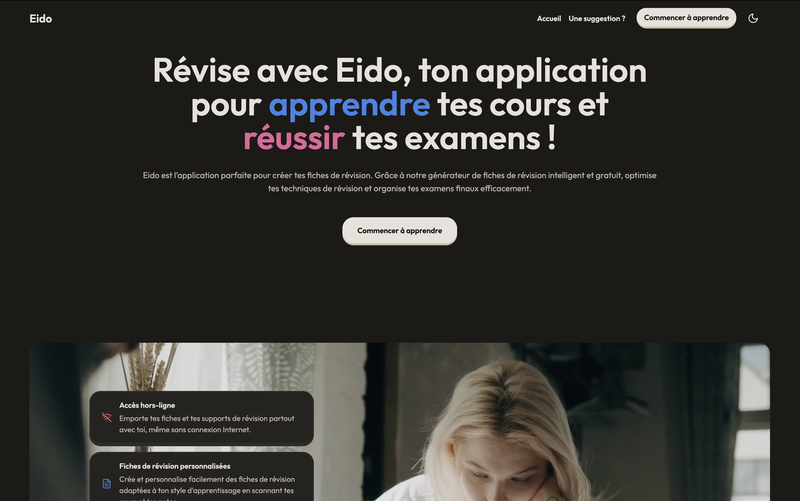
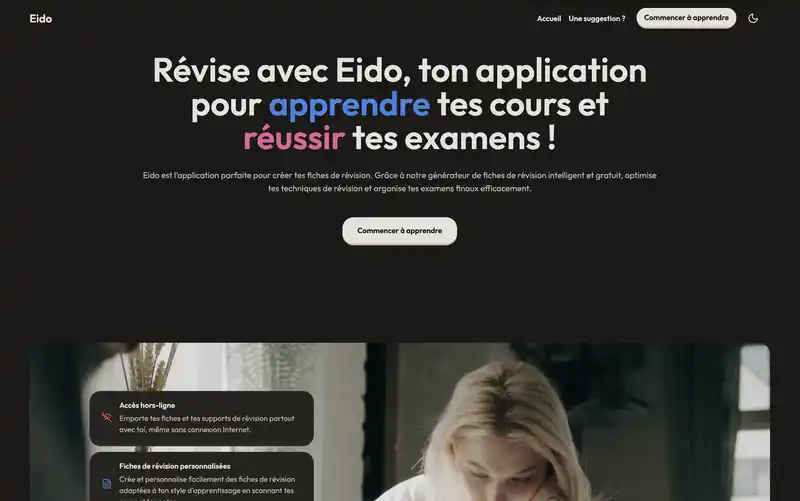
fix image and slider to increase LCP score

Changed region(s): [[0.3125, 0.1796, 0.5312, 0.2994], [0.125, 0.9581, 0.1562, 0.988], [0.125, 0.8084, 0.1562, 0.8383]]

diff --git a/apps/portfolio/src/components/MySlider/MySlider.tsx b/apps/portfolio/src/components/MySlider/MySlider.tsx
@@ -1,145 +1,163 @@
 import { ChevronLeft, ChevronRight, Circle, CircleDot } from 'lucide-react';
-import { useState } from 'react';
+import { useState, useCallback, useMemo } from 'react';
 
 const MySlider = () => {
-  const projects = [
+  const projects = useMemo(() => [
     {
       title: 'Eido',
       description:
-        'AI-powered EdTech platform with OCR integration for automated quiz and flashcard generation from scanned course materials. Full-stack entrepreneurial project built with a 6-person development team.',
+          'AI-powered EdTech platform with OCR integration for automated quiz and flashcard generation from scanned course materials. Full-stack entrepreneurial project built with a 6-person development team.',
       image: 'Eido-480.webp',
       link: 'https://eido-edu.com',
     },
     {
       title: 'Grafana Dashboard',
       description:
-        'Custom Grafana observability stack with multi-source data ingestion (Prometheus metrics, Loki logs, Jaeger traces). Implemented advanced PromQL queries and templated variables for dynamic filtering and alerting.',
+          'Custom Grafana observability stack with multi-source data ingestion (Prometheus metrics, Loki logs, Jaeger traces). Implemented advanced PromQL queries and templated variables for dynamic filtering and alerting.',
       image: 'grafana.webp',
     },
-  ];
+  ], []);
 
   const [imageIndex, setImageIndex] = useState(0);
 
-  function showNextImage() {
+  const showNextImage = useCallback(() => {
     setImageIndex((index) => {
       if (index === projects.length - 1) return 0;
       return index + 1;
     });
-  }
+  }, [projects.length]);
 
-  function showPrevImage() {
+  const showPrevImage = useCallback(() => {
     setImageIndex((index) => {
       if (index === 0) return projects.length - 1;
       return index - 1;
     });
-  }
+  }, [projects.length]);
 
-  const slides = projects.map((project, index) => {
+  const slides = useMemo(() => projects.map((project, index) => {
     const isCurrentSlide = index === imageIndex;
     const hasLink = project.link && project.link.trim() !== '';
 
+    const srcSet = `/${project.image} 480w, /${project.image.replace('-480.webp', '-800.webp')} 800w`;
+
     const slideContent = (
-      <>
-        <img
-          key={`${project.title}-img-${index}`}
-          srcSet={`/${project.image} 480w,
-           /${project.image.replace('-480.webp', '-800.webp')} 800w,
-           /${project.image.replace('-480.webp', '-1200.webp')} 1200w`}
-          src={project.image}
-          alt={project.title}
-          className="w-full h-full object-cover"
-          fetchPriority={isCurrentSlide ? 'high' : 'low'}
-          loading={isCurrentSlide ? 'eager' : 'lazy'}
-        />
-        <div
-          key={`${project.title}-content-${index}`}
-          className="absolute bottom-0 left-0 right-0 bg-black/70 text-white pb-7 sm:pb-8 md:pb-10 pt-3 px-5 transform transition-all duration-300 opacity-0 translate-y-full group-hover:opacity-100 group-hover:translate-y-0"
-        >
-          <h3 className="text-sm sm:text-base font-semibold mb-1">{project.title}</h3>
-          <p className="text-xs sm:text-sm opacity-90 font-light line-clamp-2">{project.description}</p>
-        </div>
-      </>
+        <>
+          <img
+              key={`${project.title}-img-${index}`}
+              srcSet={srcSet}
+              sizes="(max-width: 640px) 100vw, (max-width: 1024px) 80vw, 1200px"
+              src={`/${project.image}`}
+              alt={project.title}
+              className="w-full h-full object-cover"
+              fetchPriority={isCurrentSlide ? 'high' : 'low'}
+              loading={isCurrentSlide ? 'eager' : 'lazy'}
+              decoding={isCurrentSlide ? 'sync' : 'async'}
+              width="480"
+              height="288"
+          />
+          <div
+              key={`${project.title}-content-${index}`}
+              className="absolute bottom-0 left-0 right-0 bg-black/70 text-white pb-4 sm:pb-6 md:pb-8 pt-2 px-3 sm:px-4 transform transition-all duration-300 opacity-0 translate-y-full group-hover:opacity-100 group-hover:translate-y-0"
+          >
+            <h3 className="text-xs sm:text-sm md:text-base font-semibold mb-1">{project.title}</h3>
+            <p className="text-xs opacity-90 font-light line-clamp-2 sm:line-clamp-3">{project.description}</p>
+          </div>
+        </>
     );
 
     return {
       slide: hasLink ? (
-        <a
-          key={`${project.title}-${index}`}
-          className="w-full h-full flex-shrink-0 flex-grow-0 block relative transition-transform duration-300 ease-in-out cursor-pointer group"
-          style={{ transform: `translateX(${-100 * imageIndex}%)` }}
-          href={project.link}
-          tabIndex={imageIndex === index ? 0 : -1}
-          aria-label={`Ouvrir le projet ${project.title}`}
-          target="_blank"
-          rel="noopener noreferrer"
-        >
-          {slideContent}
-        </a>
+          <a
+              key={`${project.title}-${index}`}
+              className="w-full h-full flex-shrink-0 flex-grow-0 block relative transition-transform duration-300 ease-in-out cursor-pointer group will-change-transform"
+              style={{
+                transform: `translateX(${-100 * imageIndex}%)`,
+                backfaceVisibility: 'hidden',
+                perspective: '1000px'
+              }}
+              href={project.link}
+              tabIndex={imageIndex === index ? 0 : -1}
+              aria-label={`Ouvrir le projet ${project.title}`}
+              target="_blank"
+              rel="noopener noreferrer"
+          >
+            {slideContent}
+          </a>
       ) : (
-        <div
-          key={`${project.title}-${index}`}
-          className="w-full h-full flex-shrink-0 flex-grow-0 block relative transition-transform duration-300 ease-in-out group"
-          style={{ transform: `translateX(${-100 * imageIndex}%)` }}
-          tabIndex={imageIndex === index ? 0 : -1}
-          aria-label={`Voir le projet ${project.title}`}
-        >
-          {slideContent}
-        </div>
+          <div
+              key={`${project.title}-${index}`}
+              className="w-full h-full flex-shrink-0 flex-grow-0 block relative transition-transform duration-300 ease-in-out group will-change-transform"
+              style={{
+                transform: `translateX(${-100 * imageIndex}%)`,
+                backfaceVisibility: 'hidden',
+                perspective: '1000px'
+              }}
+              tabIndex={imageIndex === index ? 0 : -1}
+              aria-label={`Voir le projet ${project.title}`}
+          >
+            {slideContent}
+          </div>
       ),
       indicator: (
-        <button
-          type="button"
-          key={`${index}-${imageIndex}`}
-          className="block cursor-pointer w-6 h-6 mr-2 transition-transform duration-100 hover:scale-110 focus-visible:scale-110 focus-visible:outline-none"
-          aria-label={`View Image ${index + 1}`}
-          onClick={() => setImageIndex(index)}
-        >
-          {index === imageIndex ? (
-            <CircleDot className="stroke-white fill-black h-5 w-5" />
-          ) : (
-            <Circle className="stroke-white fill-black h-5 w-5" />
-          )}
-        </button>
+          <button
+              type="button"
+              key={`${project.title}-indicator`}
+              className="block cursor-pointer w-6 h-6 mr-2 transition-transform duration-100 hover:scale-110 focus-visible:scale-110 focus-visible:outline-none touch-manipulation"
+              aria-label={`Voir l'image ${index + 1}`}
+              onClick={() => setImageIndex(index)}
+          >
+            {index === imageIndex ? (
+                <CircleDot className="stroke-white fill-black h-5 w-5" />
+            ) : (
+                <Circle className="stroke-white fill-black h-5 w-5" />
+            )}
+          </button>
       ),
     };
-  });
+  }), [projects, imageIndex]);
 
   return (
-    <div className="max-w-5xl w-full mx-auto p-4">
-      <div
-        aria-label="Image Slider"
-        className="w-full h-full relative aspect-[10/6] rounded-lg overflow-hidden slider-container"
-      >
-        <div className="w-full h-full flex overflow-hidden">{slides.map(({ slide }) => slide)}</div>
-        <button
-          type="button"
-          onClick={showPrevImage}
-          className="absolute left-0 top-0 bottom-0 px-2 sm:px-4 cursor-pointer transition-colors duration-100 hover:bg-gradient-to-l hover:from-black/30 hover:to-transparent focus-visible:bg-gradient-to-l focus-visible:from-black/30 focus-visible:to-transparent focus-visible:outline-none group z-10"
-          aria-label="View Previous Image"
+      <div className="max-w-5xl w-full mx-auto p-2 sm:p-4">
+        <div
+            aria-label="Carrousel d'images"
+            className="w-full h-full relative aspect-[10/6] rounded-lg overflow-hidden slider-container"
         >
-          <ChevronLeft
-            className="w-8 h-8 stroke-white fill-black group-hover:animate-pulse group-focus-visible:animate-pulse drop-shadow-lg"
-            aria-hidden
-          />
-        </button>
+          <div
+              className="w-full h-full flex overflow-hidden"
+              style={{ backfaceVisibility: 'hidden' }}
+          >
+            {slides.map(({ slide }) => slide)}
+          </div>
 
-        <button
-          type="button"
-          onClick={showNextImage}
-          className="absolute right-0 top-0 bottom-0 px-2 sm:px-4 cursor-pointer transition-colors duration-100 hover:bg-gradient-to-r hover:from-black/30 hover:to-transparent focus-visible:bg-gradient-to-r focus-visible:from-black/30 focus-visible:to-transparent focus-visible:outline-none group z-10"
-          aria-label="View Next Image"
-        >
-          <ChevronRight
-            className="w-8 h-8 stroke-white fill-black group-hover:animate-pulse group-focus-visible:animate-pulse drop-shadow-lg"
-            aria-hidden
-          />
-        </button>
+          <button
+              type="button"
+              onClick={showPrevImage}
+              className="absolute left-0 top-0 bottom-0 px-1 sm:px-2 md:px-4 cursor-pointer transition-colors duration-100 hover:bg-gradient-to-l hover:from-black/30 hover:to-transparent focus-visible:bg-gradient-to-l focus-visible:from-black/30 focus-visible:to-transparent focus-visible:outline-none group z-10 touch-manipulation"
+              aria-label="Image précédente"
+          >
+            <ChevronLeft
+                className="w-6 h-6 sm:w-8 sm:h-8 stroke-white fill-black group-hover:animate-pulse group-focus-visible:animate-pulse drop-shadow-lg"
+                aria-hidden="true"
+            />
+          </button>
 
-        <div className="absolute bottom-1 left-1/2 transform -translate-x-1/2 flex gap-1 z-10">
-          {slides.map(({ indicator }) => indicator)}
+          <button
+              type="button"
+              onClick={showNextImage}
+              className="absolute right-0 top-0 bottom-0 px-1 sm:px-2 md:px-4 cursor-pointer transition-colors duration-100 hover:bg-gradient-to-r hover:from-black/30 hover:to-transparent focus-visible:bg-gradient-to-r focus-visible:from-black/30 focus-visible:to-transparent focus-visible:outline-none group z-10 touch-manipulation"
+              aria-label="Image suivante"
+          >
+            <ChevronRight
+                className="w-6 h-6 sm:w-8 sm:h-8 stroke-white fill-black group-hover:animate-pulse group-focus-visible:animate-pulse drop-shadow-lg"
+                aria-hidden="true"
+            />
+          </button>
+
+          <div className="absolute bottom-1 left-1/2 transform -translate-x-1/2 flex gap-0.5 sm:gap-1 z-10">
+            {slides.map(({ indicator }) => indicator)}
+          </div>
         </div>
       </div>
-    </div>
   );
 };
 

diff --git a/apps/portfolio/index.html b/apps/portfolio/index.html
@@ -4,9 +4,7 @@
   <meta charset="UTF-8" />
   <link rel="preconnect" href="https://fonts.googleapis.com">
   <link rel="preconnect" href="https://fonts.gstatic.com" crossorigin>
-  <link rel="preload" href="/Eido-480.webp" as="image" type="image/webp"/>
   <link rel="preload" href="/Eido-800.webp" as="image" type="image/webp"/>
-  <link rel="preload" href="/Eido-1200.webp" as="image" type="image/webp"/>
   <link rel="preload" href="/grafana.webp" as="image" type="image/webp"/>
   <link rel="preload" href="https://fonts.googleapis.com/css2?family=Epilogue:wght@400;500;600;700&display=swap" as="style" onload="this.onload=null;this.rel='stylesheet'">
   <noscript><link rel="stylesheet" href="https://fonts.googleapis.com/css2?family=Epilogue:wght@400;500;600;700&display=swap"></noscript>
